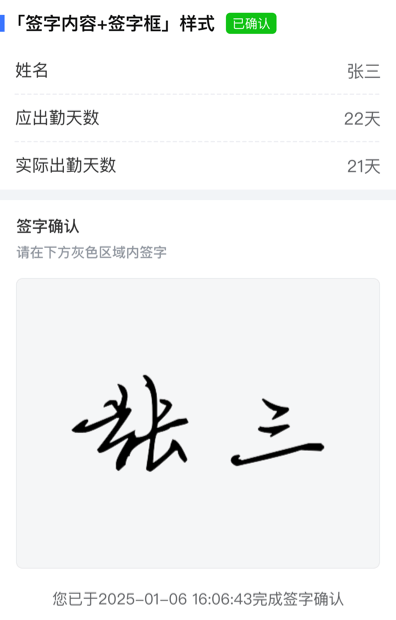
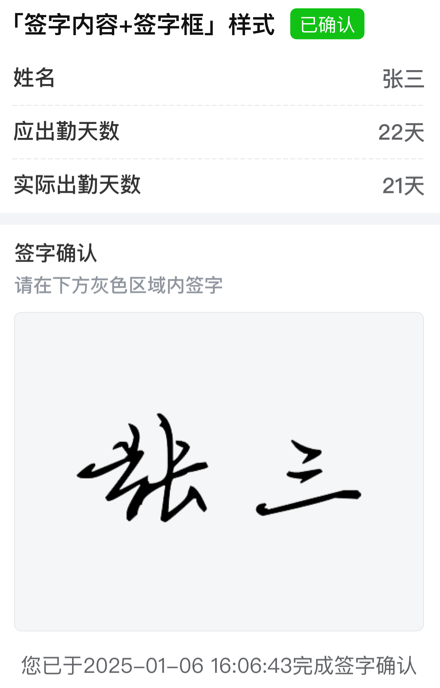
fix 样式

diff --git a/src/views/home.vue b/src/views/home.vue
@@ -16,10 +16,10 @@
             <a-radio class="plugin-form-radio" v-for="item in [{label: '签字内容+签字框', value:  2}, {label: '仅签字框', value: 1}]" 
               :key="item.value" :value="item.value" >
               {{item.label}}
-              <yy-tooltip :placement="'bottom'"	isWhite :autoAdjustOverflow="false">
+              <yy-tooltip :placement="item.value == 2 ? 'bottom' : 'bottomRight'"	isWhite :autoAdjustOverflow="false">
                 <template #title>
-                  <img v-if="item.value == 2" src="@/assets/img/content-sign.png" width="190" />
-                  <img v-else src="@/assets/img/noContent-sign.png" width="190" />
+                  <img v-if="item.value == 2" src="@/assets/img/content-sign.png" width="220" />
+                  <img v-else src="@/assets/img/noContent-sign.png" width="220" />
                 </template>
               </yy-tooltip>
             </a-radio>
@@ -591,6 +591,14 @@ const handleAllClick = (val) => {
   }
   svg{
     margin-left: 4px;
+    margin-top: 0.5px;
   }
+}
+
+</style>
+
+<style>
+.ant-tooltip-inner{
+  padding: 6px!important; 
 }
 </style>
